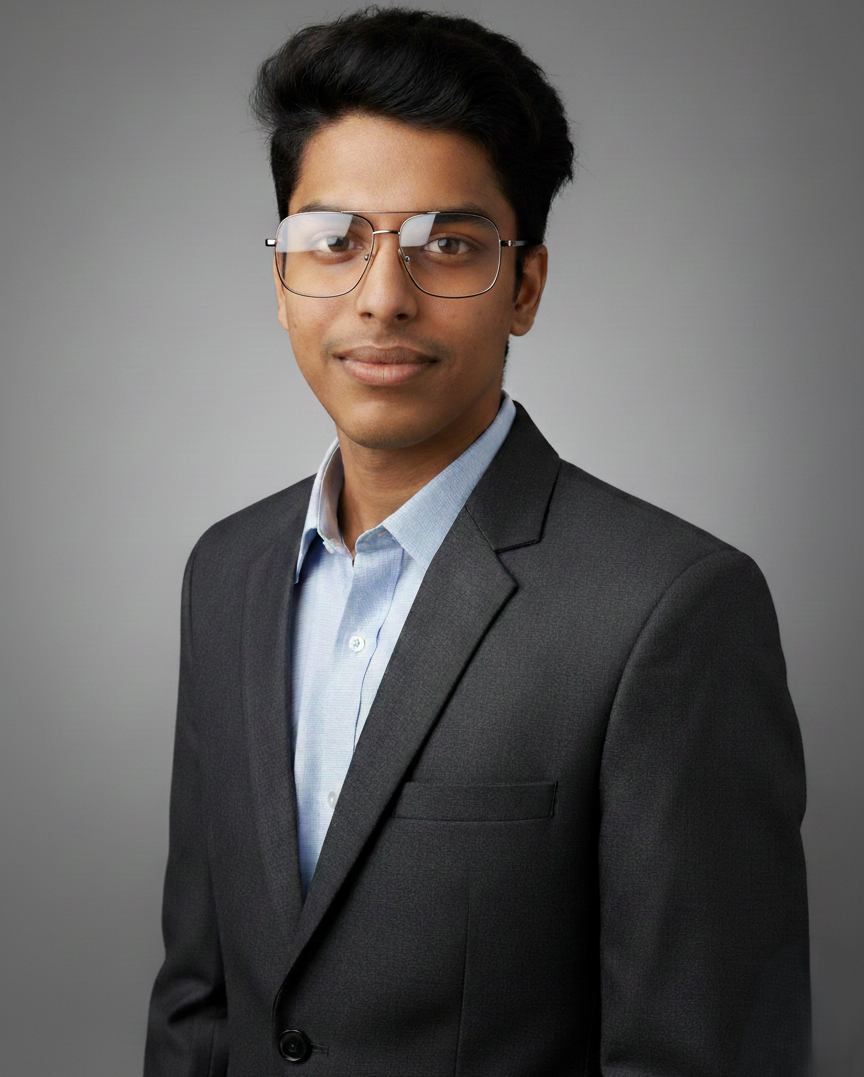
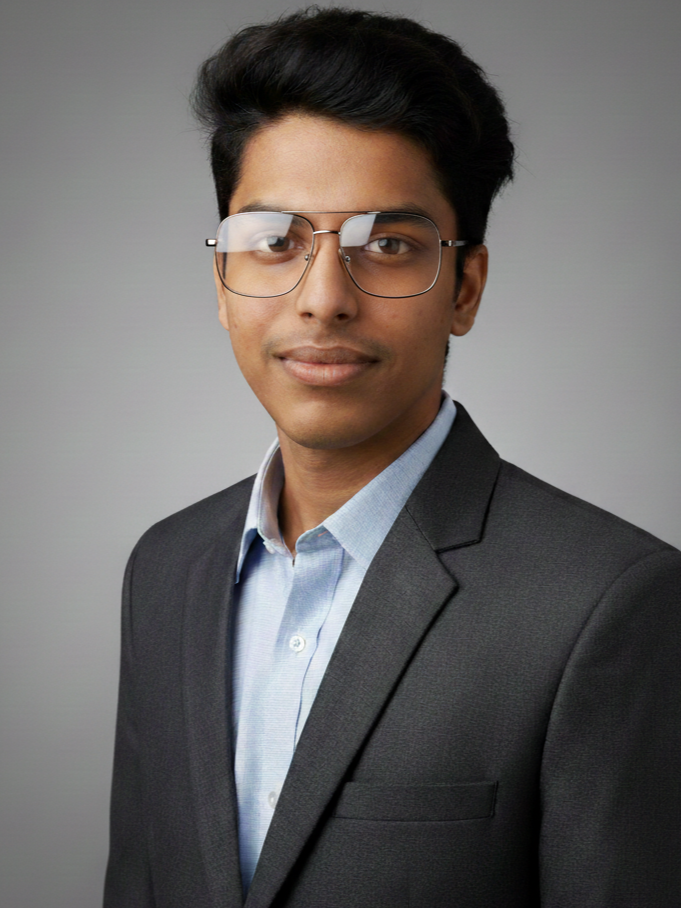
Refigure the about section

diff --git a/css/styles.css b/css/styles.css
@@ -3410,7 +3410,7 @@ img.u-pull-left {
 
 .about-info__pic {
     display        : block;
-    width          : 100%; /* Force it to stay inside the lg-6 column */
+    width          : 75%; /* Force it to stay inside the lg-6 column */
     height         : auto;
     aspect-ratio   : 3 / 4; /* Match this to your actual photo's aspect ratio */
     object-fit     : cover;
